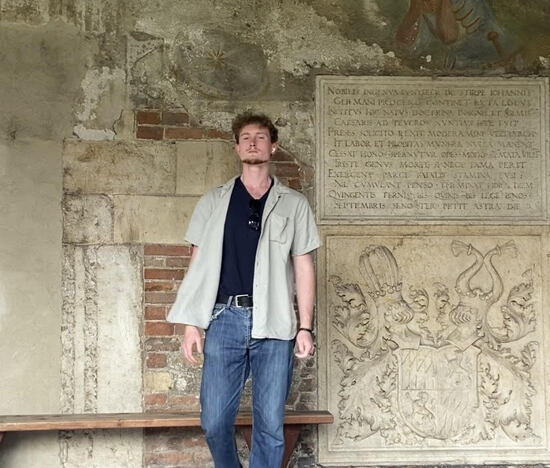
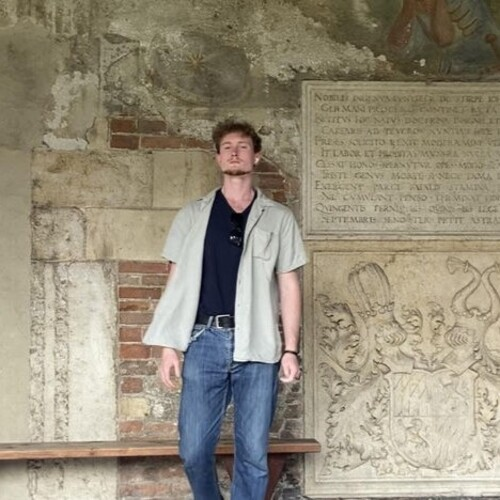
added interactive image stack

diff --git a/src/components/sections/info_section/pictureSection.vue b/src/components/sections/info_section/pictureSection.vue
@@ -1,0 +1,130 @@
+<!-- src/components/sections/info_section/pictureSection.vue -->
+<script>
+import { ref, onMounted, onBeforeUnmount } from 'vue';
+import image1 from '@/assets/personal photos/me1.jpg';
+import image2 from '@/assets/personal photos/me2.jpg';
+import image3 from '@/assets/personal photos/me3.jpg';
+
+export default {
+  name: 'PictureSection',
+  setup() {
+    const images = [image1, image2, image3];
+    const activeImageIndex = ref(0);
+    let intervalId;
+
+    const setActiveImage = (index) => {
+      activeImageIndex.value = index;
+    };
+
+    const cycleImages = () => {
+      activeImageIndex.value = (activeImageIndex.value + 1) % images.length;
+    };
+
+    onMounted(() => {
+      // Start cycling images every 5 seconds
+      intervalId = setInterval(cycleImages, 5000);
+    });
+
+    onBeforeUnmount(() => {
+      // Clear the interval when component is destroyed
+      clearInterval(intervalId);
+    });
+
+    return {
+      images,
+      activeImageIndex,
+      setActiveImage,
+    };
+  },
+};
+</script>
+
+<template>
+  <v-col cols="12" md="6" class="d-flex justify-center align-center">
+    <div class="image-stack-container">
+      <div
+        v-for="(image, index) in images"
+        :key="index"
+        :class="['image-card', { 'image-card-active': activeImageIndex === index }]"
+        @click="setActiveImage(index)"
+        :style="{ zIndex: activeImageIndex === index ? 3 : index + 1 }" 
+      >
+      <v-card class="image-card-content" elevation="6">
+        <v-img
+            :src="image"
+            alt="Profile Image"
+            class="profile-image"
+            contain
+            width="100%"
+            height="100%"
+        ></v-img>
+        </v-card>
+      </div>
+    </div>
+  </v-col>
+</template>
+
+<style scoped>
+.image-stack-container {
+  position: relative;
+  width: 90%;
+  max-width: 500px;
+  height: 350px;
+  display: flex;
+  justify-content: center;
+  align-items: center;
+  perspective: 1000px;
+}
+
+.image-card {
+  position: absolute;
+  transition: transform 0.5s ease, opacity 0.5s ease, z-index 0.5s, filter 0.5s ease; 
+  cursor: pointer;
+  transform-origin: center center;
+  width: 80%;
+  opacity: 0.3; 
+  border-radius: 10px;
+  box-shadow: 0 4px 8px rgba(0, 0, 0, 0.1);
+  filter: blur(5px);
+}
+
+.image-card:nth-child(1) {
+  transform: rotate(-10deg) translateX(-50px);
+  z-index: 1;
+}
+
+.image-card:nth-child(2) {
+  transform: rotate(0deg) translateX(0);
+  z-index: 1;
+}
+
+.image-card:nth-child(3) {
+  transform: rotate(10deg) translateX(50px);
+  z-index: 1;
+}
+
+.image-card-active {
+  transform: scale(1.15) rotate(0deg) translateX(0);
+  opacity: 1;
+  z-index: 5;
+  box-shadow: 0 16px 32px rgba(206, 110, 201, 0.3); 
+  filter: none; 
+}
+
+.image-card-content {
+  width: 100%;
+  height: 100%;
+  border-radius: 10px;
+  overflow: hidden;
+  transition: box-shadow 0.3s ease;
+}
+
+.profile-image {
+  width: 100%;
+  height: 100%;
+  object-fit: cover;
+  border-radius: 10px; 
+  transition: transform 0.3s ease; 
+}
+
+</style>

diff --git a/src/components/sections/info_section/infoSection.vue b/src/components/sections/info_section/infoSection.vue
@@ -1,12 +1,13 @@
 <!-- src\components\sections\info_section\infoSection.vue -->
 <script>
-  import imageMe from '@/assets/personal photos/personalphoto.png';
   import { inject } from 'vue';
+  import PictureSection from '@/components/sections/info_section/pictureSection.vue';
   import TechSection from '@/components/sections/info_section/techSection.vue'; 
 
   export default {
     components: {
-      TechSection 
+      TechSection,
+      PictureSection
     },
     setup() {
       const handleChangeSection = inject('handleChangeSection');
@@ -25,19 +26,7 @@
         resumeLink
       };
     },
-    data() {
-      return {
-
-        hover: false,
-        imageMe,
-        imageLoading: true 
-      };
-    },
     methods: {
-    handleImageLoaded(event) {
-      this.imageLoading = false;
-      event.target.style.opacity = 1;
-    },
     downloadResume() {
       try {
         const link = document.createElement('a');
@@ -58,21 +47,7 @@
 <template>
   <v-container class="info-container">
     <v-row class="info-row">
-      <v-col cols="12" md="6" class="d-flex justify-center align-center">
-        <v-progress-circular
-          v-if="imageLoading"
-          indeterminate
-          color="primary"
-          size="64"
-        ></v-progress-circular>
-        <img
-          :src="imageMe"
-          alt="Profile Image"
-          class="profile-image"
-          @load="handleImageLoaded"
-          v-show="!imageLoading"
-        />
-      </v-col>
+      <PictureSection />
       <v-col cols="12" md="6" class="d-flex flex-column justify-center align-center">
         <div class="text-container">
           <h1 class="text-h3 mb-2">Finn Massari</h1>

diff --git a/src/components/sections/info_section/techSection.vue b/src/components/sections/info_section/techSection.vue
@@ -285,22 +285,32 @@
 }
 
 .tech-card.languages {
+  background-color: #F7D6E0; 
   animation-delay: 0.2s;
 }
 
 .tech-card.frameworks {
+  background-color: #D6EAF8; 
+  animation-delay: 0.6s;
+}
+
+.tech-card.backend {
+  background-color: #c5e6c1; 
   animation-delay: 0.6s;
 }
 
 .tech-card.data-management {
+  background-color: #FDEBD0; 
   animation-delay: 1s;
 }
 
 .tech-card.deployment {
+  background-color: #D1F2EB; 
   animation-delay: 1.4s;
 }
 
 .tech-card.management {
+  background-color: #E8DAEF; 
   animation-delay: 1.8s;
 }
 
@@ -406,7 +416,6 @@
 .dark .tech-card.management {
   background-color: #2a3b36; 
 }
-
 .dark .card-title {
   color: #d3d3d3;
 }
